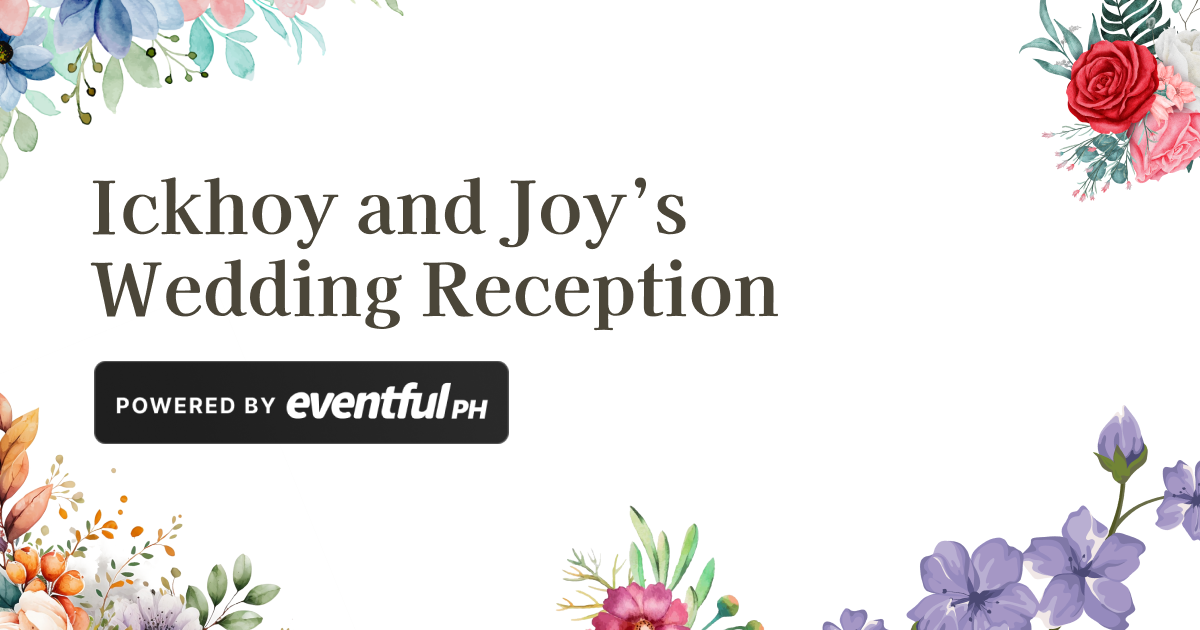
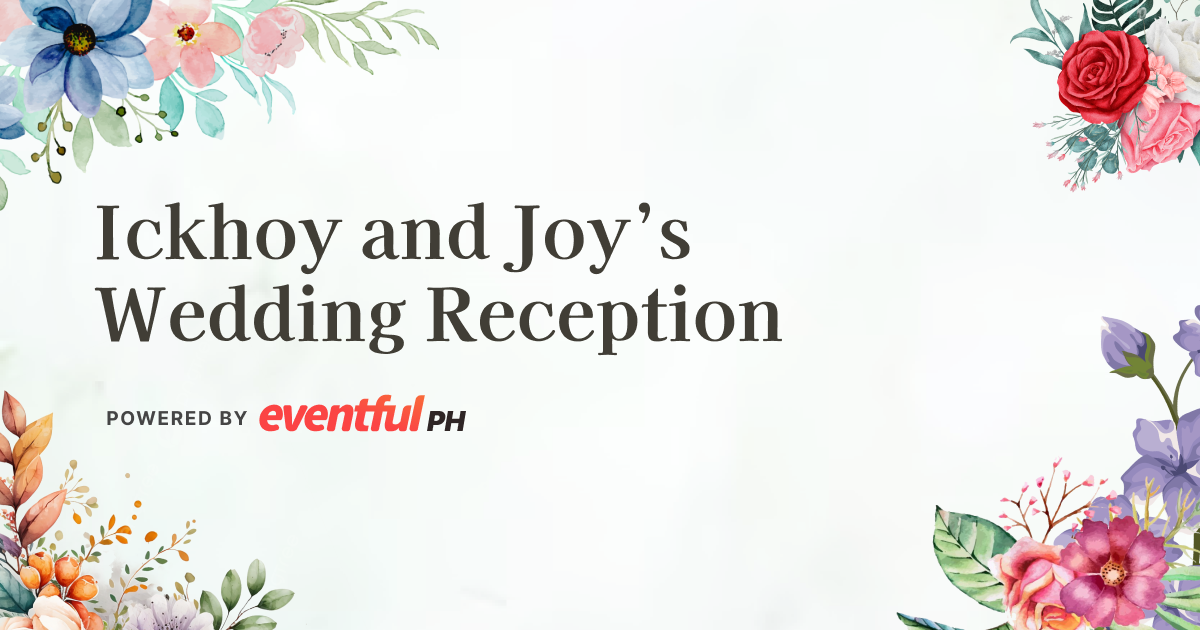
Added floor plan layout modal

diff --git a/src/app/events/(users)/ickhoy-joy-wedding/guests/page.tsx b/src/app/events/(users)/ickhoy-joy-wedding/guests/page.tsx
@@ -1,8 +1,14 @@
 "use client";
 import React, { useEffect, useState } from "react";
-import { Button, Combobox } from "@eventful-ph/stark";
+import { Button, Combobox, RemixIcon } from "@eventful-ph/stark";
 import { useGuestsContext } from "../GuestsContext";
 import { motion, useAnimate, stagger } from "framer-motion";
+import dynamic from "next/dynamic";
+import Image from "next/image";
+const Modal = dynamic(
+  () => import("@eventful-ph/stark/dist/components/Modal"),
+  { ssr: false }
+);
 
 interface OptionType {
   id: string;
@@ -20,6 +26,8 @@ export default function Page() {
   const [selectedOption, setSelectedOption] = useState<string | number>();
   const [options, setOptions] = useState<OptionType[]>([]);
   const [hasSearch, setHasSearch] = useState(false);
+  const [floorPlan, setFloorPlan] = useState<string>("");
+  const [showModal, setShowModal] = useState(false);
   const [scope, animate] = useAnimate();
 
   const optns: OptionType[] = guestList.map((guest) => {
@@ -52,14 +60,15 @@ export default function Page() {
     setHasSearch(true);
   };
 
-  const handleClear = () => {
-    setSelectedOption("");
-    handleReset();
-  };
-
   const handleReset = () => {
+    setSelectedOption("");
     setAllTables(getAllTables());
     setHasSearch(() => !hasSearch);
+  };
+
+  const handleFloorPlan = (tableNum: string) => {
+    setShowModal(true);
+    setFloorPlan(`/floorplan/Table${" "}${tableNum}.jpg`);
   };
 
   useEffect(() => {
@@ -75,9 +84,36 @@ export default function Page() {
   }, []);
   return (
     <>
+      <Modal
+        id="image-modal"
+        show={showModal}
+        size="large"
+        onClose={() => setShowModal(false)}
+        title="Table Guide"
+        caption="Please use this guide to locate your table."
+        primaryButton={{
+          label: "Close",
+          onClick: () => setShowModal(false),
+          isLoading: false,
+        }}
+      >
+        <div className="relative w-full">
+          <Image
+            src={floorPlan}
+            alt="Floor Plan"
+            sizes="100vw"
+            width={0}
+            height={0}
+            style={{
+              width: "100%",
+              height: "auto",
+            }}
+          />
+        </div>
+      </Modal>
       <div className="bg-white rounded-8px shadow-md shadow-primary-muted sticky w-full top-[20px] left-0 right-0 flex justify-center border-b-2 border-primary-base">
         <form
-          className="p-40px flex flex-row gap-8px align-bottom items-end justify-end w-full"
+          className="p-24px sm:p-40px flex flex-row gap-8px align-bottom items-end justify-end w-full"
           onSubmit={handleClick}
         >
           <Combobox
@@ -85,7 +121,7 @@ export default function Page() {
             id="name-select-field"
             options={options}
             onChange={setSelectedOption}
-            onClear={handleClear}
+            onClear={handleReset}
           />
           <Button
             label="Search"
@@ -107,6 +143,7 @@ export default function Page() {
                 key={i}
                 number={table.tableNumber.toString()}
                 guests={table.guests}
+                showTableGuideHandler={handleFloorPlan}
               />
             );
           })}
@@ -144,6 +181,7 @@ export default function Page() {
 const TableCard = ({
   number,
   guests,
+  showTableGuideHandler,
 }: {
   number: string;
   guests: {
@@ -151,6 +189,7 @@ const TableCard = ({
     fullName: string;
     table: number | string;
   }[];
+  showTableGuideHandler: (table: string) => void;
 }) => {
   return (
     <motion.div
@@ -158,10 +197,21 @@ const TableCard = ({
       animate={{ opacity: 1, y: 0 }}
       exit={{ opacity: 0 }}
       transition={{ ease: "easeOut", duration: 0.5 }}
-      className="table-card text-left bg-white p-40px border border-l-4 border-l-primary-base rounded-4px"
+      className="table-card text-left bg-white p-24px sm:p-40px border border-l-4 border-l-primary-base rounded-4px"
     >
-      <div className="kaiseki text-h3 pb-24px">Table {number}</div>
-      <div className="grid grid-rows-2 grid-cols-2 columns-2">
+      <div className="flex justify-between items-center pb-24px">
+        <div
+          className="kaiseki flex justify-center items-center text-h3 border-b-2 border-b-gray-100 border-dashed cursor-pointer hover:text-primary-hover hover:border-b-primary-hover transition-all"
+          onClick={() => showTableGuideHandler(number)}
+        >
+          Table {number}
+          <RemixIcon
+            name="arrow-right-circle-line"
+            className="ml-8px text-h5 text-copy-caption"
+          />
+        </div>
+      </div>
+      <div className="grid grid-cols-1 grid-rows-2 sm:grid-cols-2 columns-2">
         {guests.map((guest, i) => {
           return <p key={i}>{guest.fullName}</p>;
         })}

diff --git a/src/app/events/(users)/ickhoy-joy-wedding/layout.tsx b/src/app/events/(users)/ickhoy-joy-wedding/layout.tsx
@@ -20,7 +20,7 @@ export default function RootLayout({
 }) {
   return (
     <html className={`${inter.className}`}>
-      <body>
+      <body className="relative">
         <Image
           src={eventfulBadge}
           alt="eventful badge"
@@ -34,19 +34,20 @@ export default function RootLayout({
             zIndex: 1,
           }}
         />
-        <Image
-          src={backgroundImage}
-          quality={100}
-          sizes="100vw"
-          style={{
-            width: "100%",
-            height: "100%",
-            position: "fixed",
-            objectFit: "cover",
-            zIndex: -1,
-          }}
-          alt="Background image"
-        />
+        <div>
+          <Image
+            src={backgroundImage}
+            quality={100}
+            sizes="100vw"
+            alt="Background image"
+            style={{
+              width: "100vw",
+              height: "100vh",
+              zIndex: -1,
+              position: "fixed",
+            }}
+          />
+        </div>
         <main className="p-40px max-w-screen-md h-screen flex flex-col gap-8px align-middle items-center mx-auto">
           <GuestsContextProvider>{children}</GuestsContextProvider>
         </main>
